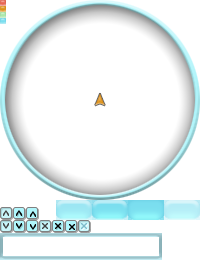
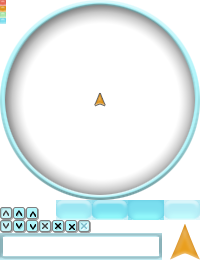
Show a navigation notice when near waypoint

Changed region(s): [[0.84, 0.8615, 1.0, 1.0]]

diff --git a/minimap/compass/compass2.js b/minimap/compass/compass2.js
@@ -30,7 +30,7 @@ There.init({
       $('.compass').attr(name.replace('there_', 'data-'), value);
     }
     if (name == 'there_avheading') {
-      $('.compass .main').css('--heading', `${value}deg`);
+      $('.compass').css('--heading', `${value}deg`);
     }
     if (name == 'there_ready' && value == 1) {
       There.fetchPilotXml(),
@@ -180,10 +180,8 @@ There.init({
     if (position == undefined) {
       return;
     }
-    {
-      let height = Math.floor(Math.max(Math.sqrt(position.x ** 2 + position.y ** 2 + position.z ** 2) - There.data.radius, 0.0));
-      $('.compass .altimeter span').text(There.getDistanceText(height));
-    }
+    let height = Math.floor(Math.max(Math.sqrt(position.x ** 2 + position.y ** 2 + position.z ** 2) - There.data.radius, 0.0));
+    $('.compass .altimeter span').text(There.getDistanceText(height));
   },
 
   updateLocationCoordinate: function() {
@@ -195,12 +193,33 @@ There.init({
       let track = There.data.track;
       if (track.index < track.waypoints.length) {
         let waypoint = track.waypoints[track.index];
-        let distance = Math.floor(Math.max(Math.sqrt((waypoint.position[0] - coordinate.x) ** 2 + (waypoint.position[1] - coordinate.y) ** 2), 0.0));
-        $('.compass .race .body[data-id="navigation"] ul li:eq(0) span:eq(1)').text(There.getDistanceText(distance));
+        let distance = There.getDistance(waypoint.position[0], waypoint.position[1], coordinate.x, coordinate.y);
+        let distanceText = There.getDistanceText(distance);
+        let direction = There.getDirection(waypoint.position[0], waypoint.position[1], coordinate.x, coordinate.y);
+        let heading = parseFloat(There.variables.there_avheading ?? 0);
+        $('.compass .race .body[data-id="navigation"] ul li:eq(0) span:eq(1)').text(distanceText);
+        $('.compass .race .body[data-id="notice"] .text').text(distanceText);
+        $('.compass .race .body[data-id="notice"]').css('--direction', `${direction}deg`);
+        if (distance > 100000) {
+          waypoint.hideNotice = true;
+          There.clearNamedTimer('track-waypoint-notice');
+          $('.compass .race').attr('data-notice', '0');
+        } else if (distance < 200 || Math.abs(There.getNormalizedHeading(direction - heading)) > 60) {
+          waypoint.hideNotice = false;
+          There.clearNamedTimer('track-waypoint-notice');
+          $('.compass .race').attr('data-notice', '1');
+        } else {
+          if (!waypoint.hideNotice) {
+            waypoint.hideNotice = true;
+            There.setNamedTimer('track-waypoint-notice', 3000, function() {
+              $('.compass .race').attr('data-notice', '0');
+            });
+          }
+        }
         if (distance < 50) {
           let x = coordinate.x;
           let y = coordinate.y;
-          There.setNamedTimer('track-waypoint', 50, function() {
+          There.setNamedTimer('track-waypoint-pass', 50, function() {
             There.passRaceWaypoint(x, y);
           });
         }
@@ -263,6 +282,10 @@ There.init({
     }
   },
 
+  getDistance: function(x1, y1, x2, y2) {
+    return Math.floor(Math.max(Math.sqrt((x1 - x2) ** 2 + (y1 - y2) ** 2), 0.0));
+  },
+
   getDistanceText: function(value) {
     if (value < 1000) {
       return Number(value).toLocaleString('en-us', {
@@ -274,6 +297,14 @@ There.init({
       minimumFractionDigits: digits,
       maximumFractionDigits: digits,
     }) + 'km';
+  },
+
+  getDirection: function(x1, y1, x2, y2) {
+    return There.getNormalizedHeading(270 - Math.round(Math.atan2(y2 - y1, x2 - x1) * 180.0 / Math.PI));
+  },
+
+  getNormalizedHeading(value) {
+    return value - Math.trunc(value / 360) * 360;
   },
 
   getDurationText: function(value) {
@@ -586,12 +617,14 @@ There.init({
   },
 
   exitRace: function() {
+    There.clearNamedTimer('track-waypoint-pass');
+    There.clearNamedTimer('track-waypoint-notice');
     delete There.data.track;
-      $('.compass .race').attr('data-active', '0');
-      $('.compass .button[data-id="close"]').attr('data-enabled', '1');
-      $('.compass .button[data-id="expand"]').attr('data-enabled', '1');
-      $('.compass .race .body[data-id="summary"]').text('');
-      $('.compass .race .body[data-id="navigation"] ul').empty();
+    $('.compass .race').attr('data-active', '0').attr('data-notice', '0');
+    $('.compass .button[data-id="close"]').attr('data-enabled', '1');
+    $('.compass .button[data-id="expand"]').attr('data-enabled', '1');
+    $('.compass .race .body[data-id="summary"]').text('');
+    $('.compass .race .body[data-id="navigation"] ul').empty();
   },
 
   setupRaceWaypoint: function() {
@@ -620,9 +653,8 @@ There.init({
         let distanceText = '';
         if (i > 0) {
           let waypoint2 = track.waypoints[i - 1];
-          let distance = Math.floor(Math.max(Math.sqrt((waypoint.position[0] - waypoint2.position[0]) ** 2 + (waypoint.position[1] - waypoint2.position[1]) ** 2), 0.0));
+          let distance = There.getDistance(waypoint.position[0], waypoint.position[1], waypoint2.position[0], waypoint2.position[1]);
           distanceText = There.getDistanceText(distance);
-
         }
         let li = $('<li>');
         $('<span>').text(`${waypoint.name} (`).appendTo($(li));
@@ -630,13 +662,13 @@ There.init({
         $('<span>').text(')').appendTo($(li));
         $(ul).append($(li));
       }
-      $('.compass .race').attr('data-active', '1');
+      $('.compass .race').attr('data-active', '1').attr('data-notice', '1');
       $('.compass .race .button[data-id="go"]').attr('data-enabled', track.index > 0 || !track.teleport ? '0' : '1');
       $('.compass .button[data-id="close"]').attr('data-enabled', track.index > 0 ? '0' : '1');
       $('.compass .button[data-id="expand"]').attr('data-enabled', track.index > 0 ? '0' : '1');
     } else {
       $('.compass .race .body[data-id="summary"]').text(`You reached the goal in ${There.getDurationText(Date.now() - track.time)}.`);
-      $('.compass .race').attr('data-active', '0');
+      $('.compass .race').attr('data-active', '0').attr('data-notice', '0');
       $('.compass .race .button[data-id="go"]').attr('data-enabled', !track.teleport ? '0' : '1');
       $('.compass .button[data-id="close"]').attr('data-enabled', '1');
       $('.compass .button[data-id="expand"]').attr('data-enabled', '1');

diff --git a/minimap/compass/compass2.css b/minimap/compass/compass2.css
@@ -552,6 +552,12 @@ body {
   overflow:hidden;
 }
 
+.compass .race[data-active="1"][data-notice="1"] .panel {
+  display:flex;
+  flex-direction:column;
+  justify-content:flex-start;
+}
+
 .compass .race .title {
   padding:2px;
   border-bottom:1px solid #666;
@@ -566,7 +572,47 @@ body {
   color:#333;
 }
 
-.compass .race[data-active="0"] .body[data-id="navigation"] {
+.compass .race .body[data-id="notice"] {
+  display:flex;
+  flex-direction:row;
+  justify-content:flex-end;
+  align-items:center;
+  flex-grow:1;
+  padding:10px;
+}
+
+.compass .race .body[data-id="notice"] .text {
+  flex-grow:1;
+  font-size:30px;
+  color:#333;
+  text-align:center;
+}
+
+.compass .race .body[data-id="notice"] .arrow {
+  width:50px;
+  height:50px;
+  background-color:#666;
+  display:flex;
+  justify-content:center;
+  align-items:center;
+  border-radius:25px;
+  transform:rotate(calc(var(--direction) - var(--heading)));
+}
+
+.compass .race .body[data-id="notice"] .arrow span {
+  width:30px;
+  height:36px;
+  background-image:url(compass2.png);
+  background-position:-170px -224px;
+}
+
+.compass .race[data-active="0"] .body[data-id="navigation"],
+.compass .race[data-notice="1"] .body[data-id="navigation"] {
+  display:none;
+}
+
+.compass .race[data-active="0"] .body[data-id="notice"],
+.compass .race[data-notice="0"] .body[data-id="notice"] {
   display:none;
 }
 

diff --git a/minimap/compass/compass2.html b/minimap/compass/compass2.html
@@ -41,7 +41,7 @@
 <div class="tile" data-x="1" data-y="2"></div>
 <div class="tile" data-x="1" data-y="1"></div>
 </div>
-<div class="altimeter"><div>&#x25b2; <span></span></div></div>
+<div class="altimeter"><div><span></span>&#x25b2;</div></div>
 <div class="overlay"></div>
 <div class="rose">
 <div class="direction" data-id="north"><span>N</span></div>
@@ -81,6 +81,7 @@ Please login as <span data-id="name"></span> to post results<span data-id="edit"
 <div class="panel">
 <div class="title"></div>
 <div class="body" data-id="navigation"><ul></ul></div>
+<div class="body" data-id="notice"><div class="text"></div><div class="arrow"><span></span></div></div>
 <div class="body" data-id="summary"></div>
 </div>
 </div>
